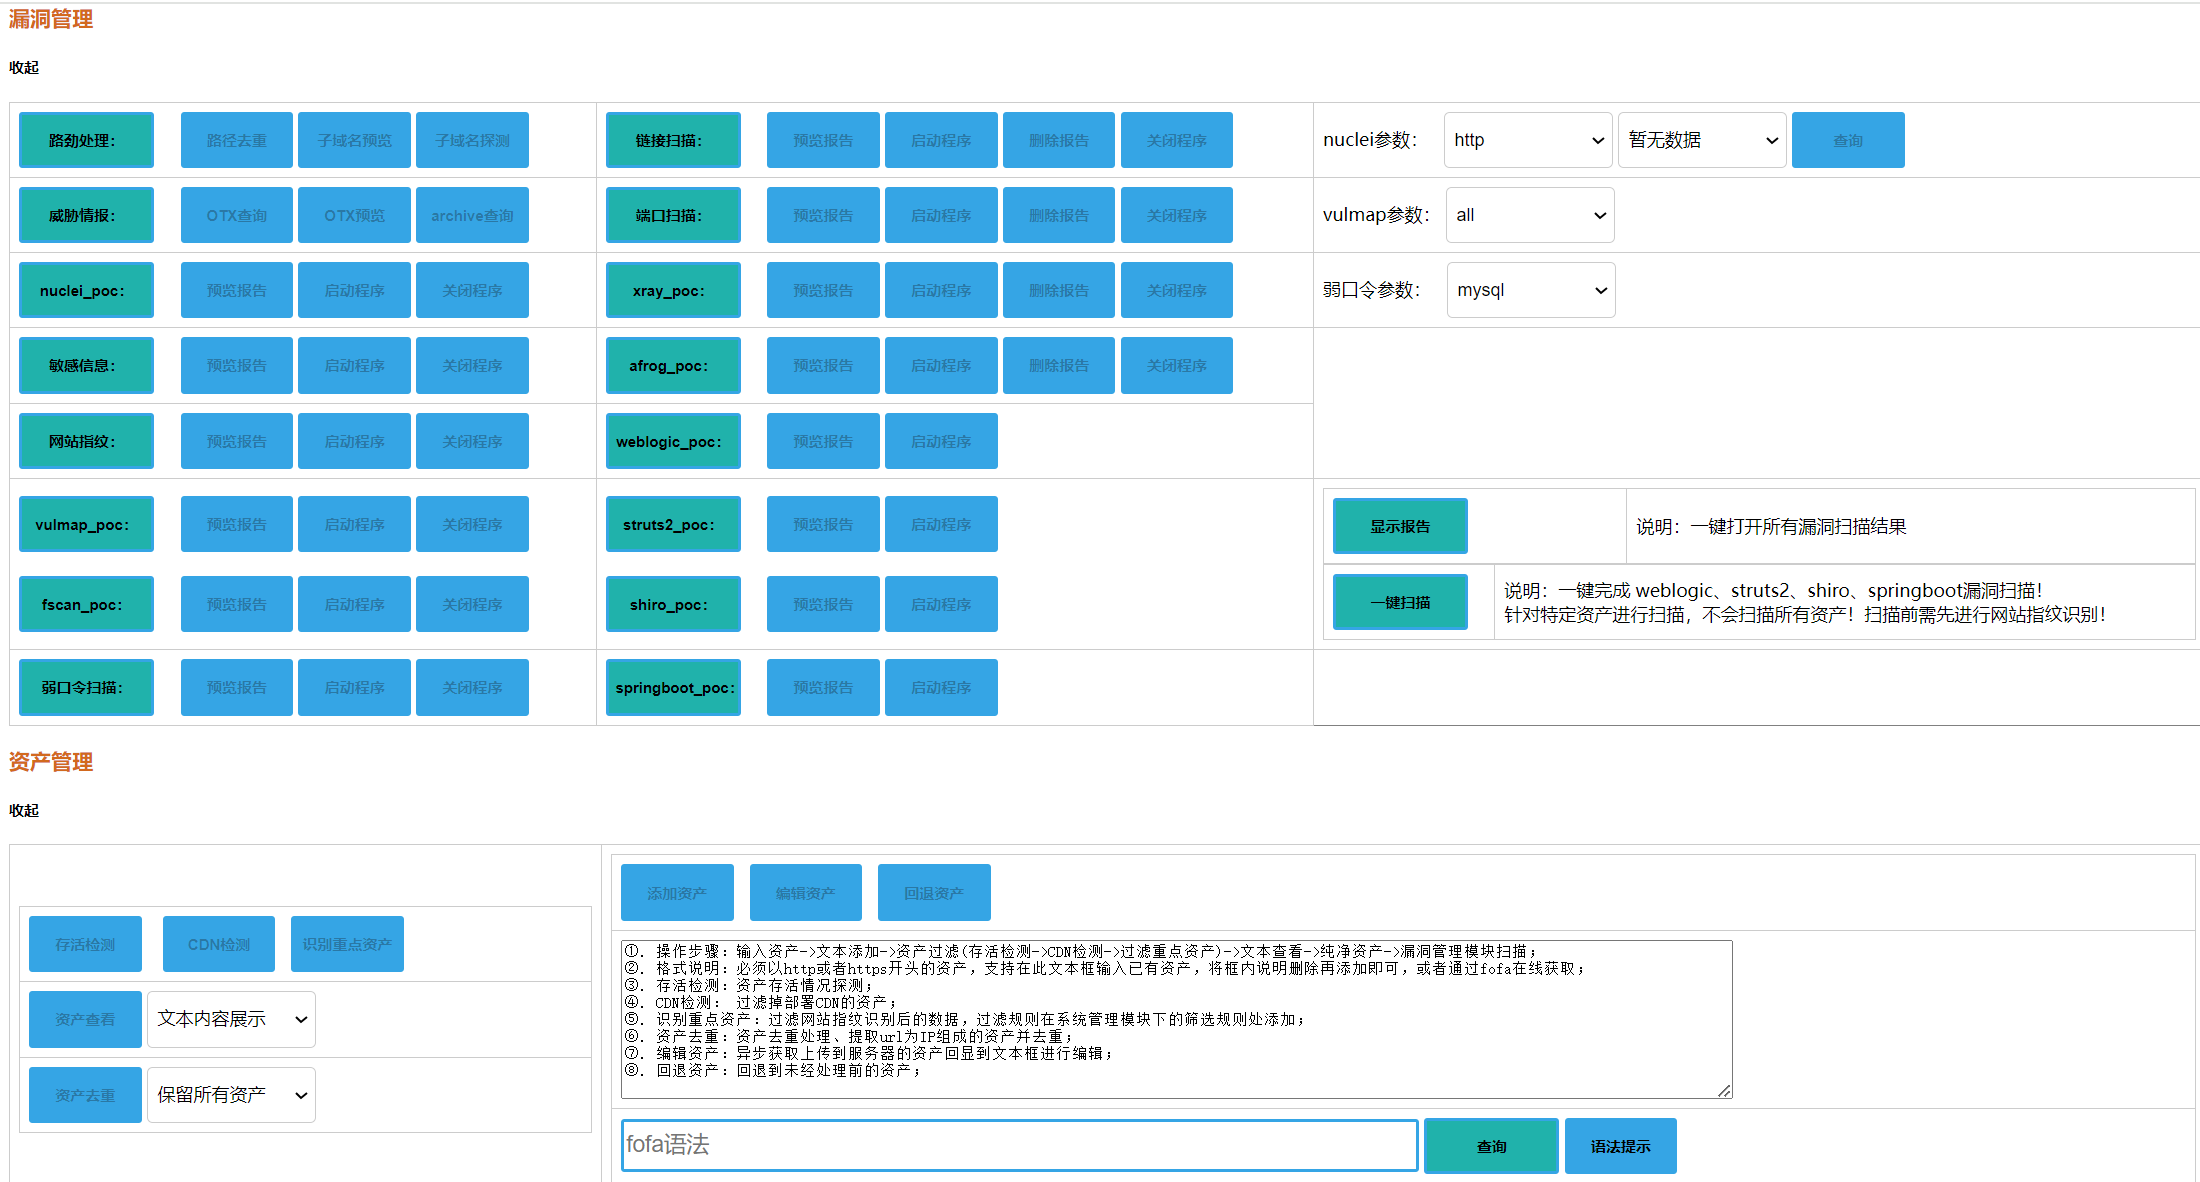
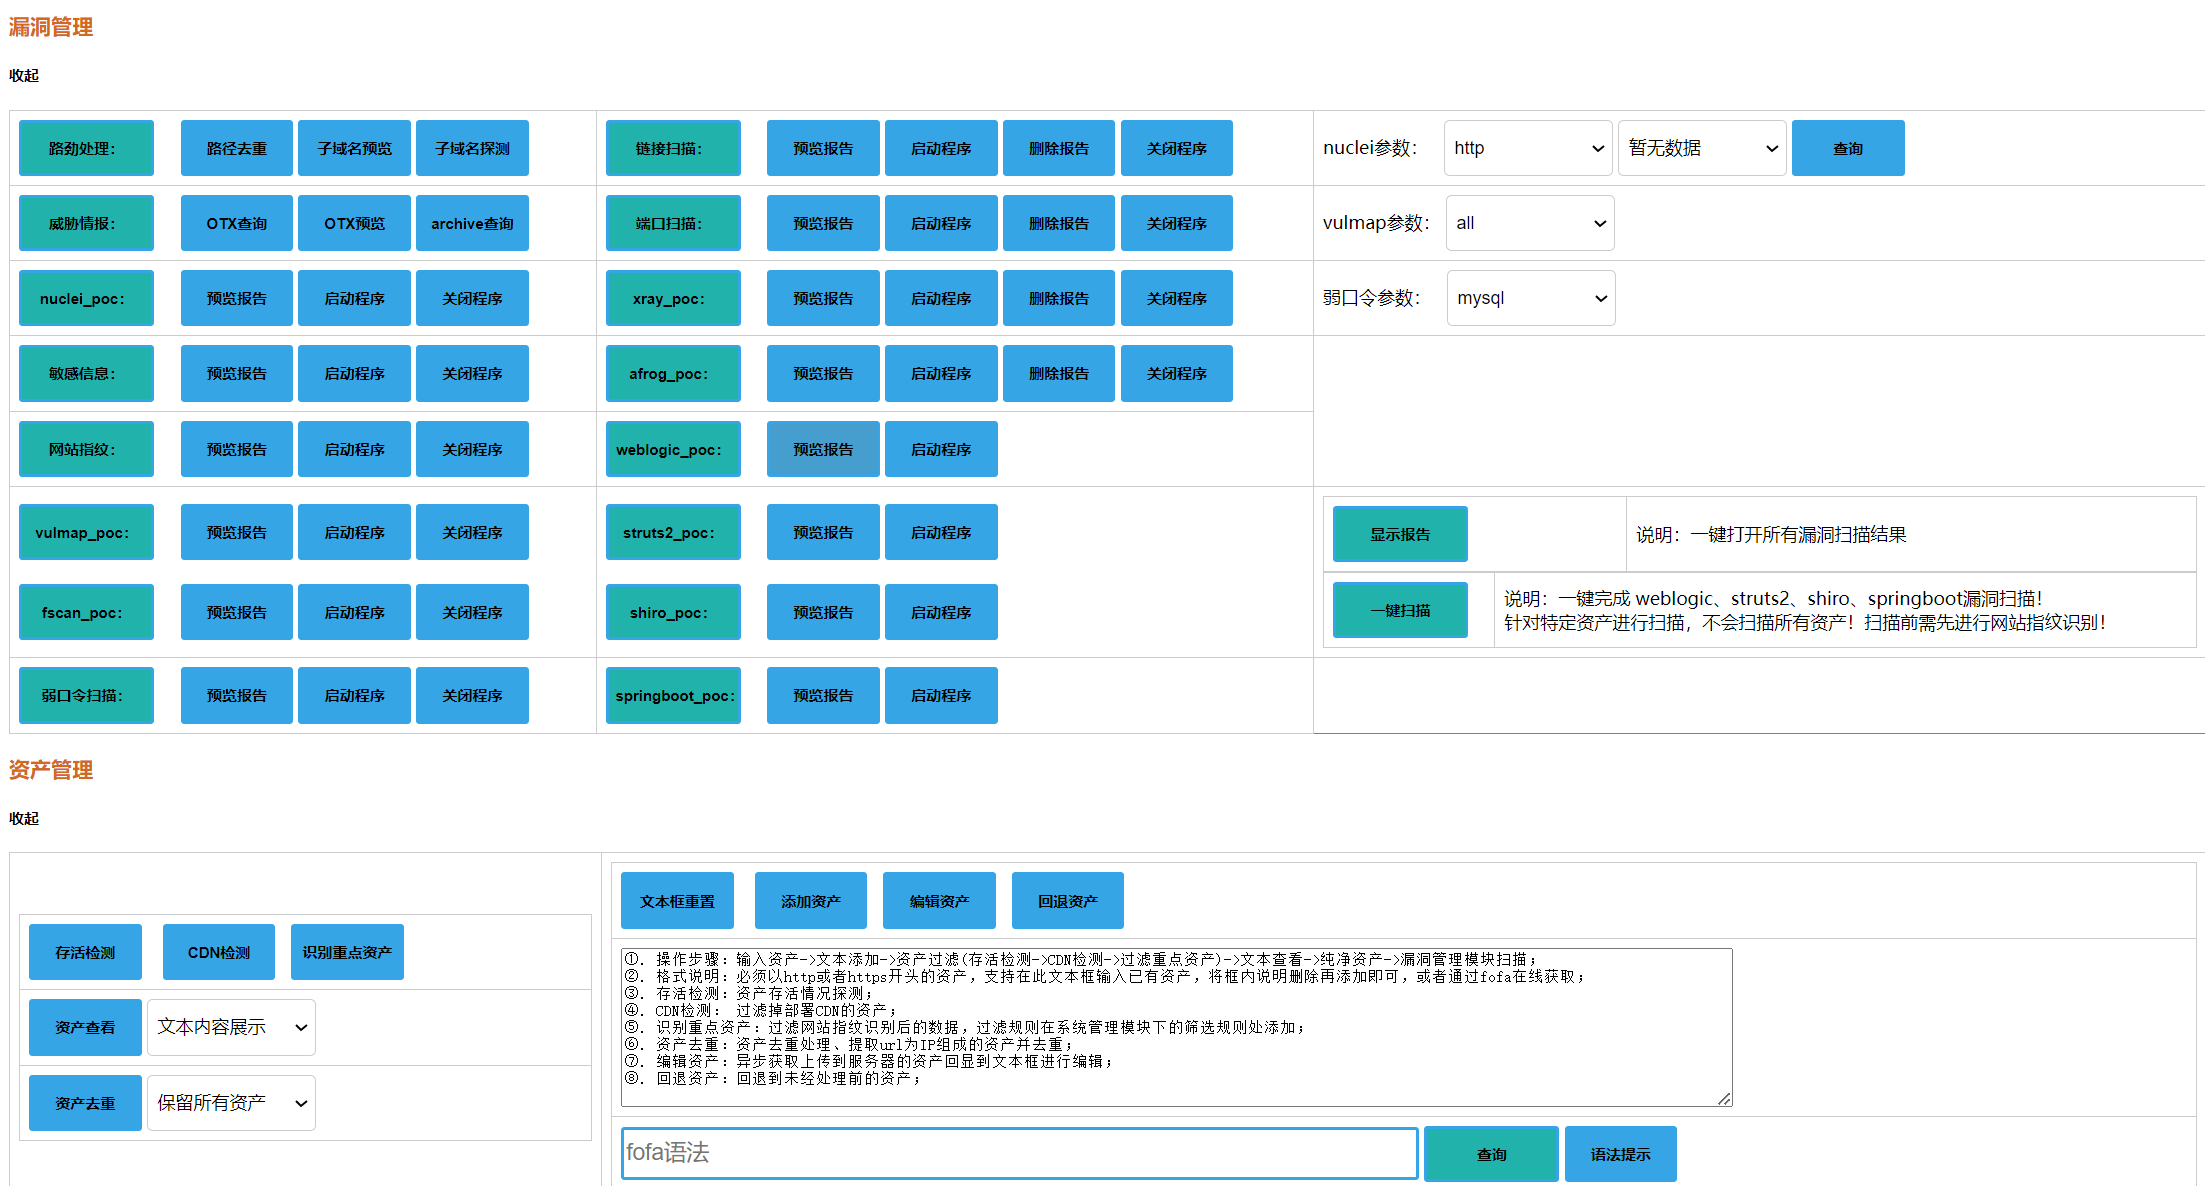
新增文本框内容重置

diff --git a/templates/index.html b/templates/index.html
@@ -537,14 +537,14 @@
 						<table>
 							<tr>
 								<td>
-									<input type="submit" value="显示报告" onclick="one_click_preview_all_report_finc()">
+									<input type="submit" id="button64" value="显示报告" onclick="one_click_preview_all_report_finc()" disabled>
 								</td>
 								<td>说明：一键打开所有漏洞扫描结果</td>
 							</tr>
 						</table>
 						<table>
 							<tr>
-								<td><input type="submit" value="一键扫描" onclick="one_click_scan_func()"></td>
+								<td><input type="submit" id="button65" value="一键扫描" onclick="one_click_scan_func()" disabled></td>
 								<td>说明：一键完成 weblogic、struts2、shiro、springboot漏洞扫描！ <br>
 									针对特定资产进行扫描，不会扫描所有资产！扫描前需先进行网站指纹识别！</td>
 							</tr>
@@ -622,6 +622,7 @@
 							<table border="1">
 								<tr>
 									<td>
+										<input type="button" id="button63" value="文本框重置" onclick="textareachongzhifunc()" disabled > &nbsp;&nbsp;
 										<input type="button" id="button3" value="添加资产" onclick="sendtextareadata()"
 											disabled>&nbsp;&nbsp;
 										<input type="button" id="button2" value="编辑资产"

diff --git a/static/js/common.js b/static/js/common.js
@@ -377,6 +377,12 @@ function startbutton() {
     button61.disabled = false;
     var button62 = document.getElementById("button62");
     button62.disabled = false;
+    var button63 = document.getElementById("button63");
+    button63.disabled = false;
+    var button64 = document.getElementById("button64");
+    button64.disabled = false;
+    var button65 = document.getElementById("button65");
+    button65.disabled = false;
 
 
 }
@@ -497,6 +503,12 @@ function stopbutton() {
     button61.disabled = true;
     var button62 = document.getElementById("button62");
     button62.disabled = true;
+    var button63 = document.getElementById("button63");
+    button63.disabled = true;
+    var button64 = document.getElementById("button64");
+    button64.disabled = true;
+    var button65 = document.getElementById("button65");
+    button65.disabled = true;
 
 }
 
@@ -1723,4 +1735,10 @@ function caozuo9cfunc() {
 function caozuo99cfunc() {
     var tishisp9c = document.getElementById("tishisp9c");
     tishisp9c.style.display = "none";
+}
+
+// 文本框重置
+function textareachongzhifunc(){
+    var myTextarea = document.getElementById("myTextarea");
+    myTextarea.value = "";
 }
